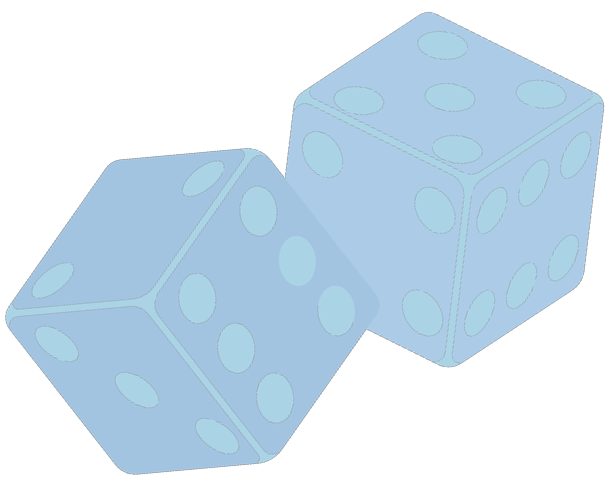
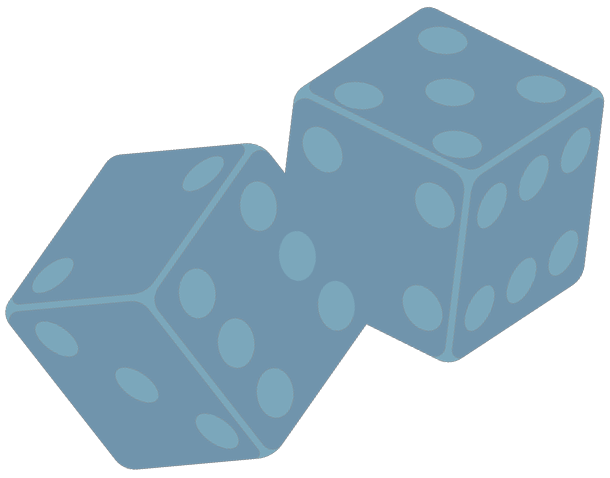
edits to landing page

diff --git a/wad2-maki/src/views/landingPage.vue b/wad2-maki/src/views/landingPage.vue
@@ -109,7 +109,7 @@ export default {
         <div class="container-fluid maxWidth">
             <!-- Second row:  Slogan and Group of Games Image-->
             <div class="row align-items-center justify-content-center">
-                <div class="col-md-7 px-md-5 text-center">
+                <div class="col-md-6 pl-md-5 text-center">
                     <h1 class="sloganText">Never <span class="highlighted">Bored</span> 
                     <br> with <span class="highlighted">Board</span> Games</h1>
                     <h4>SMU Strategica is SMU's premiere board game club, boasting over 150 board games hosted at our weekly game nights every Friday!</h4>
@@ -197,7 +197,7 @@ export default {
     max-width: 100vw;
     max-height: 50vh;
     margin:auto;
-    background-image: linear-gradient(rgba(0, 0, 0, 0), rgba(170, 212, 230, 0.1),  rgba(170, 212, 230, 1)), url(../assets/strategica_header.png); /* linear-gradient(rgba(0, 0, 0, 0.75), rgba(0, 0, 0, 0.75)),  */
+    background-image: linear-gradient(rgba(0, 0, 0, 0), rgba(123, 167, 187, 0.1),  rgba(123, 167, 187, 1)), url(../assets/strategica_header.jpg); /* linear-gradient(rgba(0, 0, 0, 0.75), rgba(0, 0, 0, 0.75)),  */
 } 
 
 .imgbox {

diff --git a/wad2-maki/src/components/listingComponent.vue b/wad2-maki/src/components/listingComponent.vue
@@ -18,7 +18,7 @@
         <br>
           Category: {{ category }}
         </small></p>
-        <p class="card-text overflowOneLine"><small class="text-muted">{{availability}}</small></p>
+        <p class="card-text overflowOneLine"><small>{{availability}}</small></p>
       </div>
     </div>
   </div>
@@ -71,12 +71,15 @@
 
 .cardStyle {
   background-color: transparent;
-  /* border: 2px solid #070F5F; */
   border: none;
   border-radius: 20px;
   padding: 10px;
   padding-top: 0px;
-  box-shadow: 0 4px 8px 0 rgba(0, 0, 0, 0.04), 0 6px 20px 0 rgba(0, 0, 0, 0.04);
+  box-shadow: 0 4px 8px 0 rgba(170, 212, 230, 0.2), 0 6px 20px 0 rgba(170, 212, 230, 0.2);
+  background-color: rgba(0, 0, 0, 0.05);
+  /* border : 1.5px solid #aad4e6; */
+  /* border: 1.5px solid #b0dde4; */
+  color: white;
 }
 
 </style>

diff --git a/wad2-maki/src/App.vue b/wad2-maki/src/App.vue
@@ -34,7 +34,7 @@ export default {
   -webkit-font-smoothing: antialiased;
   -moz-osx-font-smoothing: grayscale;
   color: white;
-  background-color: #aad4e6;
+  background-color: #7ba7bb;
 }
 
 
